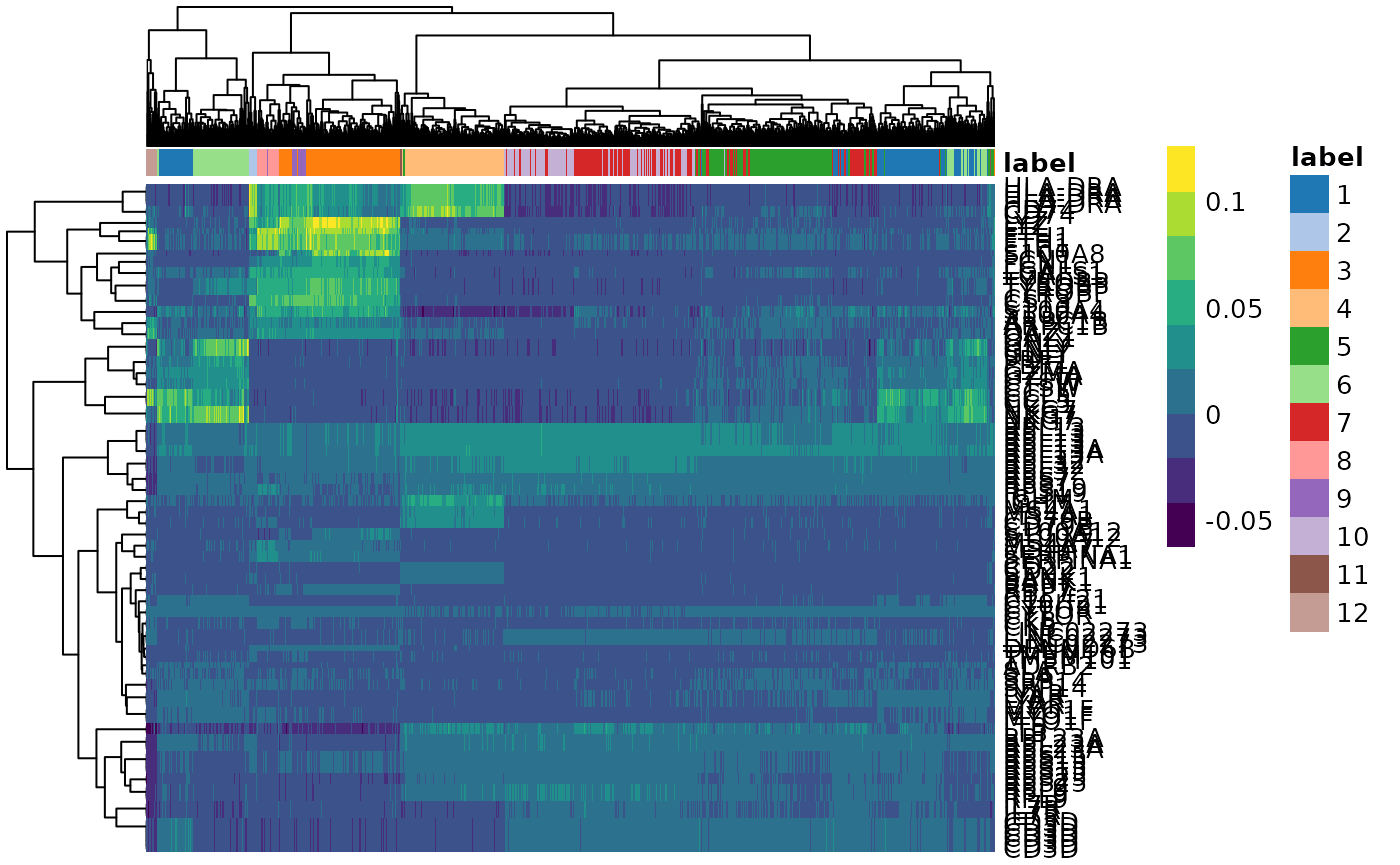
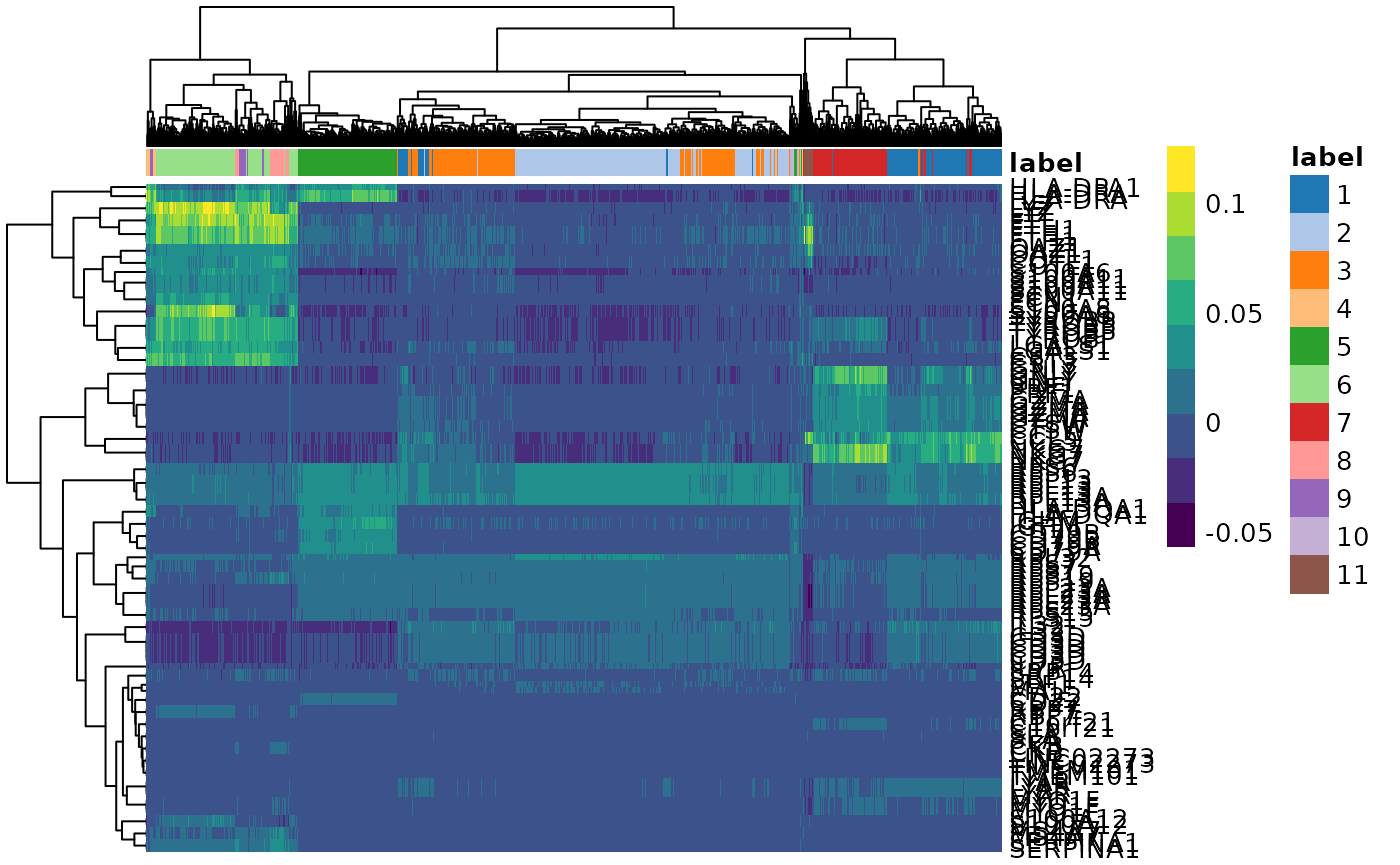
Deploying to gh-pages from  @ 7d65afcc8811abedf29e70ca6fbc9dbdf78e9741 🚀

diff --git a/index.html b/index.html
@@ -37,7 +37,7 @@
       </button>
       <span class="navbar-brand">
         <a class="navbar-link" href="index.html">bioc2021tidytranscriptomics</a>
-        <span class="version label label-default" data-toggle="tooltip" data-placement="bottom" title="Released version">0.7.3</span>
+        <span class="version label label-default" data-toggle="tooltip" data-placement="bottom" title="Released version">0.9.0</span>
       </span>
     </div>
 
@@ -100,7 +100,7 @@
 <div id="workshop-package-installation" class="section level2">
 <h2 class="hasAnchor">
 <a href="#workshop-package-installation" class="anchor"></a>Workshop package installation</h2>
-<p>This is necessary in order to reproduce the code shown in the workshop. The workshop is designed for R <code>4.0</code> and can be installed using one of the two ways below.</p>
+<p>This is necessary in order to reproduce the code shown in the workshop. The workshop is designed for R <code>4.1</code> and can be installed using one of the two ways below.</p>
 <div id="via-docker-image" class="section level3">
 <h3 class="hasAnchor">
 <a href="#via-docker-image" class="anchor"></a>Via Docker image</h3>
@@ -112,7 +112,7 @@
 <div id="via-github" class="section level3">
 <h3 class="hasAnchor">
 <a href="#via-github" class="anchor"></a>Via GitHub</h3>
-<p>Alternatively, you could install the workshop using the commands below in R <code>4.0</code>.</p>
+<p>Alternatively, you could install the workshop using the commands below in R <code>4.1</code>.</p>
 <pre><code><a href="https://rdrr.io/r/base/Sys.setenv.html">#install.packages('remotes')
 
 # Need to set this to prevent installation erroring due to even tiny warnings, similar to here: https://github.com/r-lib/remotes/issues/403#issuecomment-748181946
@@ -130,13 +130,11 @@ browseVignettes("bioc2021tidytranscriptomics")</a></code></pre>
 <div id="workshop-description" class="section level2">
 <h2 class="hasAnchor">
 <a href="#workshop-description" class="anchor"></a>Workshop Description</h2>
-<p>This workshop will present how to perform analysis of RNA sequencing data following the tidy data paradigm. The tidy data paradigm provides a standard way to organise data values within a dataset, where each variable is a column, each observation is a row, and data is manipulated using an easy-to-understand vocabulary. Most importantly, the data structure remains consistent across manipulation and analysis functions.</p>
-<p>This can be achieved for RNA sequencing data with the <a href="https://stemangiola.github.io/tidySummarizedExperiment/">tidySummarizedExperiment</a>, <a href="https://stemangiola.github.io/tidybulk/">tidybulk</a>, <a href="https://stemangiola.github.io/tidyseurat/">tidyseurat</a>, <a href="https://stemangiola.github.io/tidySingleCellExperiment/">tidySingleCellExperiment</a>, <a href="https://stemangiola.github.io/tidyHeatmap/">tidyHeatmap</a> and <a href="https://www.tidyverse.org/">tidyverse</a> packages. The tidybulk package provides a tidy data structure and a modular framework for bulk transcriptional analyses, the tidyseurat and tidySingleCellExperiment packages provide similar for single-cell, and tidyHeatmap provides a tidy implementation of ComplexHeatmap. These packages are part of the tidytranscriptomics suite that introduces a tidy approach to RNA sequencing data.</p>
+<p>Recently, <a href="https://bioconductor.org/packages/release/bioc/html/plyranges.html">plyranges</a> and <a href="https://www.bioconductor.org/packages/release/bioc/html/tidybulk.html">tidybulk</a> have made efforts toward the harmonization of biological data structures and workflows using the concept of data tidiness, to facilitate modularisation. In this workshop, we present <a href="https://stemangiola.github.io/tidySingleCellExperiment/">tidySingleCellExperiment</a> and <a href="https://stemangiola.github.io/tidySummarizedExperiment/">tidySummarizedExperiment</a>, two R packages that allow the user to visualise and manipulate SingleCellExperiment and SummarizedExperiment objects in a tidy fashion. Importantly, the tidybulk framework now works natively with SummarizedExperiment objects and, thanks to tidySummarizedExperiment, allows tidy and modular RNA sequencing analyses without renouncing the efficiency of Bioconductor data containers. These tools are part of the <a href="https://github.com/stemangiola/tidytranscriptomics">tidytranscriptomics</a> R software suite, and represent an effort toward the harmonisation of transcriptional analyses under the tidy umbrella.</p>
 <div id="pre-requisites" class="section level3">
 <h3 class="hasAnchor">
 <a href="#pre-requisites" class="anchor"></a>Pre-requisites</h3>
 <ul>
-<li>Basic knowledge of RStudio</li>
 <li>Some familiarity with tidyverse syntax</li>
 <li>Some familiarity with bulk RNA-seq and single cell RNA-seq</li>
 </ul>
@@ -151,10 +149,9 @@ browseVignettes("bioc2021tidytranscriptomics")</a></code></pre>
 <h3 class="hasAnchor">
 <a href="#r--bioconductor-packages-used" class="anchor"></a><em>R</em> / <em>Bioconductor</em> packages used</h3>
 <ul>
-<li>tidyverse</li>
-<li>tidybulk</li>
 <li>tidySummarizedExperiment</li>
 <li>tidySingleCellExperiment</li>
+<li>tidybulk</li>
 <li>tidyHeatmap</li>
 <li>limma</li>
 <li>edgeR</li>
@@ -191,27 +188,19 @@ browseVignettes("bioc2021tidytranscriptomics")</a></code></pre>
 </tr>
 </tbody>
 </table>
-</div>
-<div id="workshop-goals-and-objectives" class="section level3">
-<h3 class="hasAnchor">
-<a href="#workshop-goals-and-objectives" class="anchor"></a>Workshop goals and objectives</h3>
-<p>In exploring and analysing RNA sequencing data, there are a number of key concepts, such as filtering, scaling, dimensionality reduction, hypothesis testing, clustering and visualisation, that need to be understood. These concepts can be intuitively explained to new users, however, (i) the use of a heterogeneous vocabulary and jargon by methodologies/algorithms/packages, (ii) the complexity of data wrangling, and (iii) the coding burden, impede effective learning of the statistics and biology underlying an informed RNA sequencing analysis.</p>
-<p>The tidytranscriptomics approach to RNA sequencing data analysis abstracts out the coding-related complexity and provides tools that use an intuitive and jargon-free vocabulary, enabling focus on the statistical and biological challenges.</p>
 <div id="learning-goals" class="section level4">
 <h4 class="hasAnchor">
 <a href="#learning-goals" class="anchor"></a>Learning goals</h4>
 <ul>
-<li>To understand the key concepts and steps of RNA sequencing data analysis</li>
-<li>To approach data representation and analysis though a tidy data paradigm, integrating tidyverse with tidybulk, tidySingleCellExperiment and tidyHeatmap.</li>
+<li>To understand how transcriptomic data can be represented and analysed according to the tidy data paradigm with tidySingleCellExperiment and tidySummarizedExperiment.</li>
 </ul>
 </div>
 <div id="learning-objectives" class="section level4">
 <h4 class="hasAnchor">
 <a href="#learning-objectives" class="anchor"></a>Learning objectives</h4>
 <ul>
-<li>Recall the key concepts of RNA sequencing data analysis</li>
-<li>Apply the concepts to publicly available data</li>
-<li>Create plots that summarise the information content of the data and analysis results</li>
+<li>Explore and visualise bulk RNA-seq count data with tidySummarizedExperiment</li>
+<li>Explore and visualise single cell RNA-seq count data with tidySingleCellExperiment</li>
 </ul>
 </div>
 </div>

diff --git a/articles/tidytranscriptomics.html b/articles/tidytranscriptomics.html
@@ -37,7 +37,7 @@
       </button>
       <span class="navbar-brand">
         <a class="navbar-link" href="../index.html">bioc2021tidytranscriptomics</a>
-        <span class="version label label-default" data-toggle="tooltip" data-placement="bottom" title="Released version">0.7.3</span>
+        <span class="version label label-default" data-toggle="tooltip" data-placement="bottom" title="Released version">0.9.0</span>
       </span>
     </div>
 
@@ -1156,36 +1156,35 @@
 <span class="co">#&gt; [90m# Features=51958 | Assays=reconstructed[39m</span>
 <span class="co">#&gt;    cell       label batch corrected1 corrected2 corrected3 corrected4 corrected5</span>
 <span class="co">#&gt;    &lt;chr&gt;      &lt;fct&gt; &lt;int&gt;      &lt;dbl&gt;      &lt;dbl&gt;      &lt;dbl&gt;      &lt;dbl&gt;      &lt;dbl&gt;</span>
-<span class="co">#&gt;  1 CCAGTCACA… 3         1   -0.0617     0.326       0.0957    -0.0551   0.0350  </span>
-<span class="co">#&gt;  2 ATGAGCACA… 7         1   -0.186     -0.0269      0.131     -0.105   -0.0344  </span>
-<span class="co">#&gt;  3 TATGAATGG… 6         1   -0.0573     0.0182     -0.0838    -0.309   -0.000224</span>
-<span class="co">#&gt;  4 CATATAGAC… 2         1   -0.0761     0.267       0.142     -0.0552  -0.0161  </span>
-<span class="co">#&gt;  5 GAGGCAGAC… 1         1   -0.0745     0.0264     -0.0591    -0.273   -0.00628 </span>
-<span class="co">#&gt;  6 AGCTGCCTT… 5         1   -0.121      0.00772     0.0987    -0.152    0.0125  </span>
-<span class="co">#&gt;  7 TGATTAGAT… 4         1   -0.145      0.0643      0.128     -0.0408  -0.173   </span>
-<span class="co">#&gt;  8 ACGAAGCTC… 4         1   -0.120      0.0917      0.137     -0.0487  -0.0677  </span>
-<span class="co">#&gt;  9 CGGCATCTT… 3         1   -0.00211    0.395       0.0775    -0.0863   0.0284  </span>
-<span class="co">#&gt; 10 ATAGCGTGC… 3         1   -0.0557     0.353       0.138     -0.0602   0.0463  </span>
+<span class="co">#&gt;  1 CCAGTCACA… 6         1   -0.0617     0.326       0.0957    -0.0551   0.0350  </span>
+<span class="co">#&gt;  2 ATGAGCACA… 2         1   -0.186     -0.0269      0.131     -0.105   -0.0344  </span>
+<span class="co">#&gt;  3 TATGAATGG… 7         1   -0.0572     0.0181     -0.0838    -0.309   -0.000210</span>
+<span class="co">#&gt;  4 CATATAGAC… 4         1   -0.0760     0.267       0.142     -0.0551  -0.0161  </span>
+<span class="co">#&gt;  5 GAGGCAGAC… 1         1   -0.0744     0.0263     -0.0591    -0.273   -0.00626 </span>
+<span class="co">#&gt;  6 AGCTGCCTT… 3         1   -0.121      0.00769     0.0987    -0.152    0.0126  </span>
+<span class="co">#&gt;  7 TGATTAGAT… 5         1   -0.145      0.0643      0.128     -0.0408  -0.173   </span>
+<span class="co">#&gt;  8 ACGAAGCTC… 5         1   -0.120      0.0916      0.137     -0.0487  -0.0677  </span>
+<span class="co">#&gt;  9 CGGCATCTT… 6         1   -0.00205    0.395       0.0775    -0.0863   0.0284  </span>
+<span class="co">#&gt; 10 ATAGCGTGC… 6         1   -0.0557     0.353       0.138     -0.0602   0.0463  </span>
 <span class="co">#&gt; # … with 2,990 more rows</span></code></pre></div>
 <p>Thanks to tidySingleCellExperiment we can interrogate the object with tidyverse commands and use <code>count</code> to count the number of cells in each cluster.</p>
 <div class="sourceCode" id="cb51"><pre class="downlit sourceCode r">
 <code class="sourceCode R"><span class="va">pbmc</span> <span class="op">%&gt;%</span> <span class="fu"><a href="https://rdrr.io/pkg/tidySingleCellExperiment/man/count.html">count</a></span><span class="op">(</span><span class="va">label</span><span class="op">)</span>
 <span class="co">#&gt; tidySingleCellExperiment says: A data frame is returned for independent data analysis.</span>
-<span class="co">#&gt; # A tibble: 12 x 2</span>
+<span class="co">#&gt; # A tibble: 11 x 2</span>
 <span class="co">#&gt;    label     n</span>
 <span class="co">#&gt;    &lt;fct&gt; &lt;int&gt;</span>
-<span class="co">#&gt;  1 1       461</span>
-<span class="co">#&gt;  2 2        33</span>
-<span class="co">#&gt;  3 3       387</span>
-<span class="co">#&gt;  4 4       353</span>
-<span class="co">#&gt;  5 5       459</span>
-<span class="co">#&gt;  6 6       290</span>
-<span class="co">#&gt;  7 7       504</span>
+<span class="co">#&gt;  1 1       465</span>
+<span class="co">#&gt;  2 2       749</span>
+<span class="co">#&gt;  3 3       548</span>
+<span class="co">#&gt;  4 4        33</span>
+<span class="co">#&gt;  5 5       367</span>
+<span class="co">#&gt;  6 6       387</span>
+<span class="co">#&gt;  7 7       284</span>
 <span class="co">#&gt;  8 8        75</span>
 <span class="co">#&gt;  9 9        43</span>
-<span class="co">#&gt; 10 10      346</span>
-<span class="co">#&gt; 11 11       15</span>
-<span class="co">#&gt; 12 12       34</span></code></pre></div>
+<span class="co">#&gt; 10 10       15</span>
+<span class="co">#&gt; 11 11       34</span></code></pre></div>
 </div>
 <div id="reduce-dimensions" class="section level2">
 <h2 class="hasAnchor">
@@ -1413,7 +1412,7 @@
 <span class="co">#&gt;  [67] zlibbioc_1.39.0                   RCurl_1.98-1.3                   </span>
 <span class="co">#&gt;  [69] ps_1.6.0                          prettyunits_1.1.1                </span>
 <span class="co">#&gt;  [71] GetoptLong_1.0.5                  viridis_0.6.1                    </span>
-<span class="co">#&gt;  [73] cowplot_1.1.1                     bioc2021tidytranscriptomics_0.7.3</span>
+<span class="co">#&gt;  [73] cowplot_1.1.1                     bioc2021tidytranscriptomics_0.9.0</span>
 <span class="co">#&gt;  [75] cluster_2.1.2                     fs_1.5.0                         </span>
 <span class="co">#&gt;  [77] magrittr_2.0.1                    RSpectra_0.16-0                  </span>
 <span class="co">#&gt;  [79] data.table_1.14.0                 ResidualMatrix_1.3.0             </span>

diff --git a/404.html b/404.html
@@ -81,7 +81,7 @@
       </button>
       <span class="navbar-brand">
         <a class="navbar-link" href="https://stemangiola.github.io/bioc2021_tidytranscriptomics/index.html">bioc2021tidytranscriptomics</a>
-        <span class="version label label-default" data-toggle="tooltip" data-placement="bottom" title="Released version">0.7.3</span>
+        <span class="version label label-default" data-toggle="tooltip" data-placement="bottom" title="Released version">0.9.0</span>
       </span>
     </div>
 

diff --git a/articles/background.html b/articles/background.html
@@ -37,7 +37,7 @@
       </button>
       <span class="navbar-brand">
         <a class="navbar-link" href="../index.html">bioc2021tidytranscriptomics</a>
-        <span class="version label label-default" data-toggle="tooltip" data-placement="bottom" title="Released version">0.7.3</span>
+        <span class="version label label-default" data-toggle="tooltip" data-placement="bottom" title="Released version">0.9.0</span>
       </span>
     </div>
 

diff --git a/articles/index.html b/articles/index.html
@@ -81,7 +81,7 @@
       </button>
       <span class="navbar-brand">
         <a class="navbar-link" href="../index.html">bioc2021tidytranscriptomics</a>
-        <span class="version label label-default" data-toggle="tooltip" data-placement="bottom" title="Released version">0.7.3</span>
+        <span class="version label label-default" data-toggle="tooltip" data-placement="bottom" title="Released version">0.9.0</span>
       </span>
     </div>
 

diff --git a/reference/BRCA.html b/reference/BRCA.html
@@ -82,7 +82,7 @@
       </button>
       <span class="navbar-brand">
         <a class="navbar-link" href="../index.html">bioc2021tidytranscriptomics</a>
-        <span class="version label label-default" data-toggle="tooltip" data-placement="bottom" title="Released version">0.7.3</span>
+        <span class="version label label-default" data-toggle="tooltip" data-placement="bottom" title="Released version">0.9.0</span>
       </span>
     </div>
 

diff --git a/reference/index.html b/reference/index.html
@@ -81,7 +81,7 @@
       </button>
       <span class="navbar-brand">
         <a class="navbar-link" href="../index.html">bioc2021tidytranscriptomics</a>
-        <span class="version label label-default" data-toggle="tooltip" data-placement="bottom" title="Released version">0.7.3</span>
+        <span class="version label label-default" data-toggle="tooltip" data-placement="bottom" title="Released version">0.9.0</span>
       </span>
     </div>
 

diff --git a/reference/pbmc.html b/reference/pbmc.html
@@ -82,7 +82,7 @@
       </button>
       <span class="navbar-brand">
         <a class="navbar-link" href="../index.html">bioc2021tidytranscriptomics</a>
-        <span class="version label label-default" data-toggle="tooltip" data-placement="bottom" title="Released version">0.7.3</span>
+        <span class="version label label-default" data-toggle="tooltip" data-placement="bottom" title="Released version">0.9.0</span>
       </span>
     </div>
 

diff --git a/CONTRIBUTING.html b/CONTRIBUTING.html
@@ -81,7 +81,7 @@
       </button>
       <span class="navbar-brand">
         <a class="navbar-link" href="index.html">bioc2021tidytranscriptomics</a>
-        <span class="version label label-default" data-toggle="tooltip" data-placement="bottom" title="Released version">0.7.3</span>
+        <span class="version label label-default" data-toggle="tooltip" data-placement="bottom" title="Released version">0.9.0</span>
       </span>
     </div>
 

diff --git a/LICENSE-text.html b/LICENSE-text.html
@@ -81,7 +81,7 @@
       </button>
       <span class="navbar-brand">
         <a class="navbar-link" href="index.html">bioc2021tidytranscriptomics</a>
-        <span class="version label label-default" data-toggle="tooltip" data-placement="bottom" title="Released version">0.7.3</span>
+        <span class="version label label-default" data-toggle="tooltip" data-placement="bottom" title="Released version">0.9.0</span>
       </span>
     </div>
 

diff --git a/authors.html b/authors.html
@@ -81,7 +81,7 @@
       </button>
       <span class="navbar-brand">
         <a class="navbar-link" href="index.html">bioc2021tidytranscriptomics</a>
-        <span class="version label label-default" data-toggle="tooltip" data-placement="bottom" title="Released version">0.7.3</span>
+        <span class="version label label-default" data-toggle="tooltip" data-placement="bottom" title="Released version">0.9.0</span>
       </span>
     </div>
 
